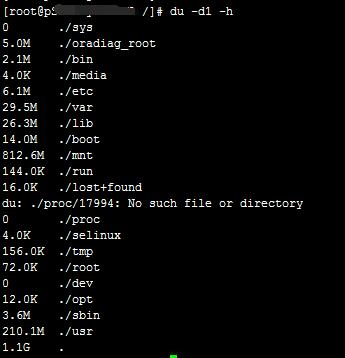
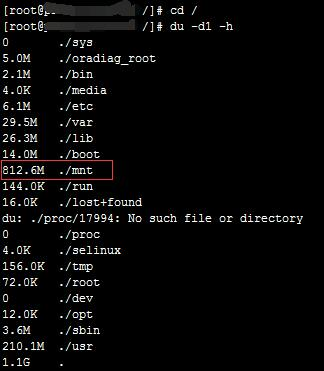
add log

diff --git a/_posts/2019-3-1-FindMaxFile.md b/_posts/2019-3-1-FindMaxFile.md
@@ -19,7 +19,7 @@ tags: 实战运维
 ![](/images/posts/2019-3-1-FindMaxFile/FinMaxFile1.jpg)         
 
 3. 进入第2步中找到的目录，再接着查找定位。        
-![](/images/posts/2019-3-1-FindMaxFile/FinMaxFile1.jpg)         
+![](/images/posts/2019-3-1-FindMaxFile/FinMaxFile2.jpg)         
 
 ### 总结    
 对于目录包含内容的大小要用`du`命令，而不是`ls -alh`,`ls`只能够查看文件大小（文本文件或目录文件）。    
